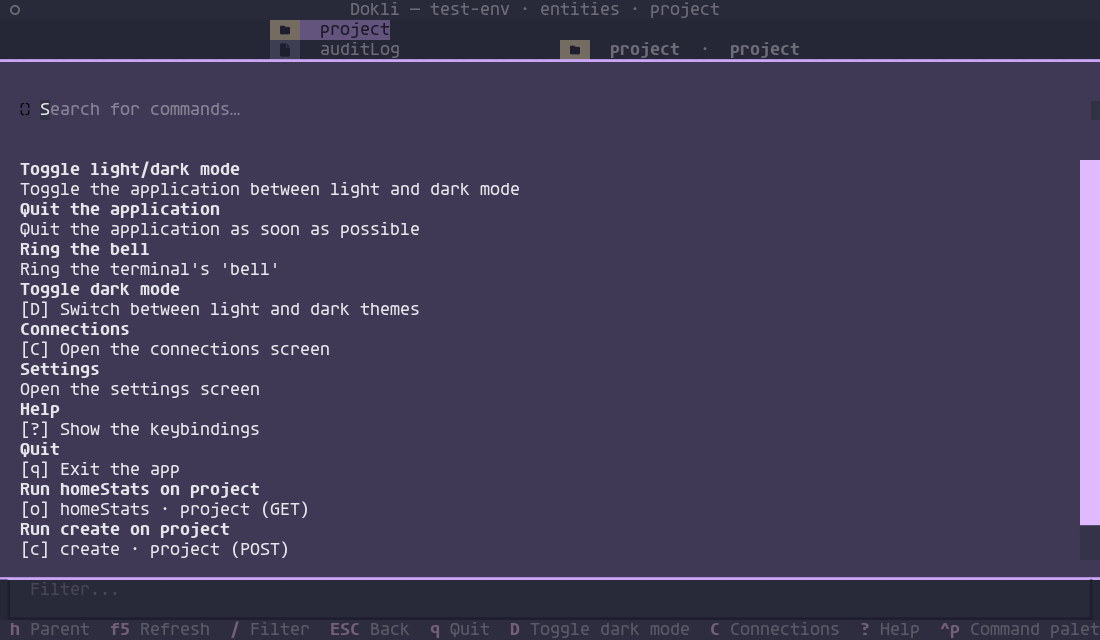
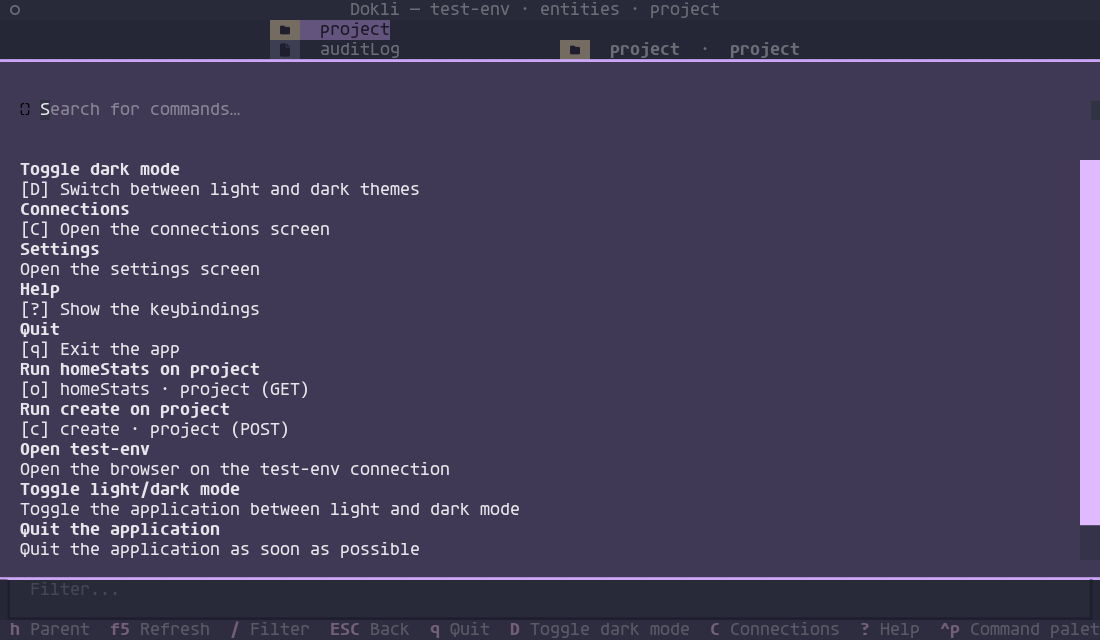
DOKLI-68-f1: adjustments

Changed region(s): [[0.0, 0.25, 0.4636, 0.875]]

diff --git a/dokli/tui/screens/splash.py b/dokli/tui/screens/splash.py
@@ -21,16 +21,6 @@ _SPINNER_INTERVAL = 0.12
 class SplashScreen(Screen):
     """A splash screen with the Dokploy logo as backdrop and a centered status box."""
 
-    # The box floats over the logo's empty text band (between the "D" and the
-    # swoosh) instead of the dead center, where it collides with the art.
-    # (The app CSS already centers the overlay panel; these margins nudge it.)
-    CSS = """
-    #status-panel {
-        margin-left: -4;
-        margin-top: -2;
-    }
-    """
-
     BINDINGS = [
         Binding("escape", "cancel_connection", "Cancel"),
     ]
@@ -67,7 +57,7 @@ class SplashScreen(Screen):
 
     def action_cancel_connection(self) -> None:
         """Abort the connection attempt and go back."""
-        cast(Any, self.app).cancel_connection()
+        cast("Any", self.app).cancel_connection()
 
     def set_status(self, text: str, error: bool = False) -> None:
         """Update the splash status line (no-op once unmounted)."""

diff --git a/README.md b/README.md
@@ -356,11 +356,6 @@ A schema-driven TUI (`dokli tui`) that generates its interface from the Dokploy 
 
 ![Splash](https://raw.githubusercontent.com/jonykalavera/dokli/main/assets/tui-splash.png)
 
-Screenshots are **PNGs** generated headless from anonymized mock data — they never
-show real instances, and are rasterized from the terminal's cell grid with a real
-Nerd Font, so they render the same for every reader. Regenerate them with
-`make screenshots` (requires Pillow and the Agave Nerd Font Mono).
-
 ### TUI customization
 
 A `tui:` section in the config customizes the appearance and behavior (defaults
